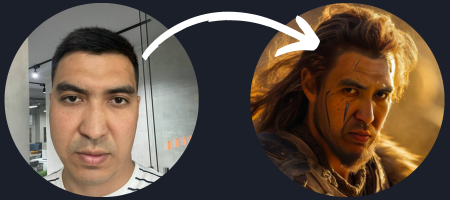
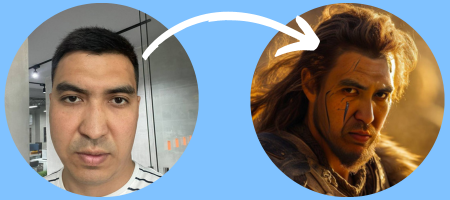
css changes

diff --git a/src/pages/Main/Main.css b/src/pages/Main/Main.css
@@ -12,22 +12,17 @@
   src: url('./WorkSans-Regular.ttf') format('ttf');
 }
 
-
-
-
 body {
   font-family: Arial, sans-serif;
   margin: 0;
   padding: 0;
-  background-color: #1A1F2A;
+  background-color: #80C2FF;
 }
 
 .main-container {
   max-width: 800px;
   margin: 8% auto;
   padding: 20px;
-  background-color: #1A1F2A;
-  /* box-shadow: 0 2px 4px rgba(0, 0, 0, 0.1); */
   border-radius: 8px;
 }
 
@@ -47,14 +42,15 @@ body {
   font-weight: 700;
   font-size: 50px;
   margin: 0;
-  color: #CECECE;
+  color: #FFFFFF;
+  text-shadow: 1px 1px 2px rgba(0, 0, 0, 0.2);
 }
 
 .left-side p {
   font-family: 'Work Sans', sans-serif;
   font-weight: 400;
   font-size: 16px;
-  color: #CECECE;
+  color: #FFFFFF;
   margin: 10px 0;
 }
 
@@ -90,19 +86,16 @@ body {
   display: inline-block;
   margin: 30px;
   padding: 10px;
-  background-color: #596454;
-  color: #fff;
+  background-color: #fff;
+  color: #0066FF;
   border-radius: 8px;
   cursor: pointer;
 }
 
-.btn-photo:hover{
-  background-color: #71BEF6;
-}
 
 .lower-section p {
   font-size: 14px;
-  color: #CECECE;
+  color: #fff;
   margin-bottom: 20px;
 }
 
@@ -115,14 +108,14 @@ body {
 .form-section label {
   display: block;
   margin-bottom: 10px;
-  color: #CECECE;
+  color: #fff;
 }
 
 .form-section input,
 .form-section select {
   padding: 10px;
   font-size: 16px;
-  border: 1px solid #ccc;
+  border: 1px solid #fff;
   border-radius: 4px;
   outline: none; /* Remove focus outline */
 }
@@ -138,16 +131,18 @@ body {
   margin-top: 20px;
   padding: 10px 20px;
   font-size: 18px;
-  color: #fff;
-  background-color: #596454;
+  font-family: 'Work Sans', sans-serif;
+  font-weight: 400;
+  color: #0066FF;
+  background-color: #fff;
   border: none;
   border-radius: 4px;
   cursor: pointer;
-  outline: none; /* Remove focus outline */
+  outline: none;
 }
 
 .form-section button:hover {
-  background-color: #71BEF6;
+  background-color: #ccc;
 }
 
 /* Optional styles for better responsiveness */
@@ -198,14 +193,14 @@ input {
   font-size: 15px;
   line-height: 1;
   color: white;
-  background-color: var(--black-a5);
+  background-color: #71BEF6;
   box-shadow: 0 0 0 1px var(--black-a9);
 }
 .Input:focus {
   box-shadow: 0 0 0 2px wheat;
 }
 .Input::selection {
-  background-color: var(--black-a9);
+  background-color: #71BEF6;
   color: white;
 }
 
@@ -241,14 +236,14 @@ input {
   font-size: 15px;
   line-height: 1;
   color: white;
-  background-color: var(--black-a5);
+  background-color: #71BEF6;
   box-shadow: 0 0 0 1px var(--black-a9);
 }
 .Input:focus {
   box-shadow: 0 0 0 2px white;
 }
 .Input::selection {
-  background-color: var(--black-a9);
+  background-color: #71BEF6;
   color: white;
 }
 
@@ -269,15 +264,15 @@ input {
 button {
   padding: 8px 16px;
   font-size: 16px;
+  color: #0066FF;
   cursor: pointer;
-  border: 1px solid #ccc;
+  border: 1px solid #fff;
   border-radius: 4px;
-  background-color: #596454;
+  background-color: #fff;
   border: none;
   border-radius: 4px;
   cursor: pointer;
   transition: background-color 0.3s ease;
-  
 }
 
 
@@ -285,7 +280,7 @@ button {
   padding: 10px 20px;
   font-size: 16px;
   color: #fff;
-  background-color: #CECECE;
+  background-color: #fff;
   border: none;
   border-radius: 4px;
   cursor: pointer;
@@ -295,13 +290,13 @@ button {
 
 /* Hover effect */
 .submit-button:hover {
-  background-color: #CECECE;
+  background-color: #ccc;
   
 }
 
 /* Active effect */
 .submit-button:active {
-  background-color: #CECECE;
+  background-color: #fff;
 }
 
 img{
@@ -314,7 +309,7 @@ img{
   font-family: 'Work Sans', sans-serif;
   font-weight: 200;
   font-size: 20px;
-  color: #CECECE;
+  color: #fff;
 
 }
 
@@ -324,15 +319,17 @@ img{
 
 /* Styles for the buttons */
 .gender button {
-  background-color: #596454;
+  color: #0066FF;
+  background-color: #fff;
   font-size: 16px;
   padding: 8px 16px;
   margin: 4px;
+  font-family: 'Work Sans', sans-serif;
 }
 
 /* Styles for the active button */
 .gender button.active {
-  background-color: #71BEF6;
+  background-color: #0066FF;
   color: #ffffff;
 }
 
@@ -344,7 +341,6 @@ img{
 .form-section {
   display: inline-block;
   padding: 20px;
-  background-color: #1A1F2A;
 }
 
 .form-group {
@@ -353,13 +349,12 @@ img{
 
 label {
   display: block;
-  font-size: 16px;
-  font-weight: bold;
+  font-size: 5px;
   font-family: 'Work Sans', sans-serif;
-  font-weight: 700;
+  font-weight: 400;
   font-size: 20px;
   margin: 20px;
-  color: #CECECE;
+  color: #fff;
 }
 
 input {
@@ -368,12 +363,12 @@ input {
   width: 100%;
   border: 1px solid #ccc;
   border-radius: 4px;
-  background-color: #CECECE;
+  background-color: #fff;
 }
 
 .submit-button {
-  background-color: #007bff;
-  color: #fff;
+  background-color: #fff;
+  color: #0066FF;
   padding: 10px 20px;
   font-size: 16px;
   border: none;
@@ -382,7 +377,7 @@ input {
 }
 
 .submit-button:hover {
-  background-color: #0056b3;
+  background-color: #fff;
 }
 
 .error-message {
@@ -392,10 +387,21 @@ input {
 }
 
 .text-h2{
- 
     font-family: 'Work Sans', sans-serif;
   font-weight: 700;
   font-size: 30px;
   margin: 20px;
-  color: #CECECE;
+  color: #fff;
+}
+
+.btn-photo:hover{
+  background-color: #ccc;
+}
+.btn-photo{
+font-size: 16px;
+}
+
+.text-main{
+  color: #fff;
+  font-family: 'Work Sans', sans-serif;
 }

diff --git a/src/pages/Main/Main.jsx b/src/pages/Main/Main.jsx
@@ -1,15 +1,16 @@
-import React, { useEffect, useState } from "react";
+import React, {useState } from "react";
 import axios from 'axios';
 import Popup from '../../components/Popup/Popup';
 import Profile from '../../components/Webcam/Profile';
 import example from './example.png';
 import person from './person.png';
 import './Main.css';
+import { useNavigate } from 'react-router-dom';
 
 const Main = () => {
+  
+  const navigate = useNavigate();
 
- 
- 
   const [formData, setFormData] = useState({
     name: '',
     sex: null,
@@ -107,7 +108,8 @@ const Main = () => {
 
     if(validationReturn){
       
-      setShowPopup(true);
+      navigate("/thank-you");
+       
       console.log(`handleValitation: ${handleValidation()}`);
 
     const { name, sex, yourImage, email, telegramTag } = formData;
@@ -123,7 +125,7 @@ const Main = () => {
     try {
       const response = await axios({
         method: "post",
-        url: 'http://104.248.26.55:7999/api/faces',
+        url: 'http://104.248.26.55:8000/api/faces',
         data: formDataToSend,
         headers: {
           "content-type": `multipart/form-data; boundary=${formDataToSend._boundary}`,
@@ -134,7 +136,7 @@ const Main = () => {
       console.log(idOfPhoto);
       axios({
         method: "put",
-        url: `http://104.248.26.55:7999/api/generate-random-image/${idOfPhoto}`,
+        url: `http://104.248.26.55:8000/api/generate-random-image/${idOfPhoto}`,
       })
         .then((res) => {
           console.log(res.statusText);
@@ -179,7 +181,7 @@ const Main = () => {
 
   return (
     <div>
-     
+    
       {showPopup && <Popup  resetFormData={resetFormData} />}
       <div className="main-container">
         {/* Upper Section */}
@@ -210,7 +212,7 @@ const Main = () => {
             <div>
               <img src={person} alt="Photo" id="upload-photo" />
               <label className="btn-photo" >
-                Chose photo from device <input type="file" onChange={handleChange} />
+                Chose photo from device <input type="file" accept="image/jpeg, image/jpg, image/png" onChange={handleChange} />
               </label>
             </div>
             
